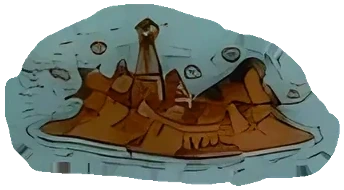
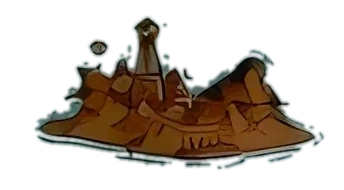
Islands cut free of their baked sea blob; tunable map values with hints; wonders above the sea effects; fix dark edge lines
- scripts/cut-islands.py keeps only land and coast strokes (no pale halo)
- deep-sea shader used premultiplied samples twice, darkening the edge near coasts: fixed
- PixiMapTune (cloud parallax/morph, gusts, smoke, glints, wonders, deep sea, hover delay, wave spacing) +
  Tuning hints; calmer sea defaults (sway 24/10 s, foam crest 14, clouds x6)
- ?capture=1 fades the Panels button out (visible on hover) and no longer disables the Director

diff --git a/src/ui/idleVillage/pixiSpike/PixiWorldMap.tsx b/src/ui/idleVillage/pixiSpike/PixiWorldMap.tsx
@@ -62,7 +62,43 @@ export interface PixiRegionHover {
   y: number;
 }
 
+/** Look-and-feel numbers of the map the Tuning panel can change live. */
+export interface PixiMapTune {
+  /** Multiplier on how far each cloud layer slides against the ground when the camera pans (0 = glued). */
+  cloudParallax: number;
+  /** Multiplier on how much a cloud swells, narrows and tilts as it drifts (0 = rigid). */
+  cloudMorph: number;
+  /** Strength of the wind gusts of light over the forests (0 = off). */
+  gustStrength: number;
+  /** Opacity multiplier of the village smoke (0 = off). */
+  smokeAmount: number;
+  /** Opacity multiplier of the sun glints on the sea (0 = off). */
+  glintAmount: number;
+  /** Seconds between two sea wonders surfacing (kraken, whale, ship): the shortest wait; the longest is 1.9x. */
+  wonderEveryS: number;
+  /** How far (world px) the painted sea's edge colour holds before sinking into deep water. */
+  deepSeaFadePx: number;
+  /** Seconds a territory must be hovered before it lights up and shows its name. */
+  regionHoverDelayS: number;
+  /** No two waves or sea marks play closer than this (world px). */
+  markSpacingPx: number;
+}
+
+export const DEFAULT_MAP_TUNE: PixiMapTune = {
+  cloudParallax: 1,
+  cloudMorph: 1,
+  gustStrength: 1,
+  smokeAmount: 1,
+  glintAmount: 1,
+  wonderEveryS: 18,
+  deepSeaFadePx: 650,
+  regionHoverDelayS: 1,
+  markSpacingPx: 900,
+};
+
 export interface PixiWorldMapProps {
+  /** Live look-and-feel numbers (defaults in `DEFAULT_MAP_TUNE`). */
+  tune?: Partial<PixiMapTune>;
   manifestPath: string;
   hiddenLayerIds?: string[];
   safeFit?: WorldSurfaceSafeFit;
@@ -183,7 +219,7 @@ void main() {
   vec2 w = uExt.xy + vUV * uExt.zw;
   vec2 uv = w / uWorld;
   if (uv.x >= 0.0 && uv.x <= 1.0 && uv.y >= 0.0 && uv.y <= 1.0) { outColor = vec4(0.0); return; }
-  vec2 c = clamp(uv, vec2(0.003), vec2(0.997));
+  vec2 c = clamp(uv, vec2(0.012), vec2(0.988));
   bool sideEdge = uv.x < 0.0 || uv.x > 1.0;
   bool capEdge = uv.y < 0.0 || uv.y > 1.0;
   vec3 acc = vec3(0.0);
@@ -191,11 +227,12 @@ void main() {
   for (int i = -6; i <= 6; i++) {
     float o = float(i) * 0.02;
     vec4 a = sideEdge ? texture(uSea, c + vec2(0.0, o)) : texture(uSea, c + vec2(o, 0.0));
-    acc += a.rgb * a.a;
+    // Pixi uploads textures premultiplied: the rgb is already weighted by its alpha.
+    acc += a.rgb;
     wsum += a.a;
     if (sideEdge && capEdge) {
       vec4 b = texture(uSea, c + vec2(o, 0.0));
-      acc += b.rgb * b.a;
+      acc += b.rgb;
       wsum += b.a;
     }
   }
@@ -222,6 +259,7 @@ out vec4 outColor;
 uniform sampler2D uTex;
 uniform vec4 uRect;
 uniform float uTime;
+uniform float uStrength;
 float hash(vec2 p) { p = fract(p * vec2(123.34, 456.21)); p += dot(p, p + 45.32); return fract(p.x * p.y); }
 float vnoise(vec2 p) {
   vec2 i = floor(p), f = fract(p);
@@ -234,7 +272,7 @@ void main() {
   // A gust is a band of noise advected by the wind; the finer ripple rides inside it.
   float gust = smoothstep(0.5, 0.82, vnoise(w * 0.0022 + vec2(uTime * 0.045, uTime * 0.018)));
   float ripple = 0.55 + 0.45 * vnoise(w * 0.02 + vec2(uTime * 0.35, 0.0));
-  float a = t.a * gust * ripple * 0.30;
+  float a = t.a * gust * ripple * 0.30 * uStrength;
   outColor = vec4(vec3(0.78, 0.9, 0.5) * a, a);
 }
 `;
@@ -280,7 +318,6 @@ const CLOUD_ENTRY_PAD_PX = 200;
 /** Open water past the painted sea: its deep colour, the fog of the unexplored, and how far (world px) the edge colour holds. */
 const DEEP_SEA_COLOR = '#215c70';
 const DEEP_SEA_FOG = '#16394a';
-const DEEP_SEA_FADE_PX = 650;
 /** Cloud layers (far, mid, near): how much further than the ground each slides when the camera pans. */
 const CLOUD_PARALLAX = [0.1, 0.22, 0.4] as const;
 /** Village roofs where smoke rises (world px), puffs per chimney, and a puff's life. */
@@ -311,11 +348,8 @@ function makeGlintCanvas(): HTMLCanvasElement {
 }
 
 /** Pointer dwell before a territory lights up and shows its name. */
-const REGION_HOVER_DELAY_MS = 1000;
 /** No two waves or sea marks play at the same time closer than this (world px). */
-const MARK_MIN_SPACING_PX = 900;
 /** Sea wonders: how often one may surface, how long it stays, how big it is on the map (world px wide). */
-const WONDER_EVERY_S = [18, 34] as const;
 const WONDER_LIFETIME_S = 9;
 const WONDER_WIDTH_PX = 300;
 
@@ -371,6 +405,7 @@ export function PixiWorldMap({
   cloudSpeed = 1,
   seabed,
   regions,
+  tune: tuneProp,
   seaPatternConfig = DEFAULT_SEA_PATTERN_CONFIG,
   coastFoamConfig = DEFAULT_COAST_FOAM_CONFIG,
   onStats,
@@ -382,6 +417,8 @@ export function PixiWorldMap({
   /** Anchors the clouds must clear: read every frame, so POIs that come and go need no map rebuild. */
   const anchorsRef = useRef(anchors);
   anchorsRef.current = anchors;
+  const tune = { ...DEFAULT_MAP_TUNE, ...tuneProp };
+  const tuneKey = JSON.stringify(tune);
   const regionsRef = useRef(regions);
   regionsRef.current = regions;
   const regionsOn = !!regions;
@@ -418,6 +455,7 @@ export function PixiWorldMap({
     const hidden = new Set(hiddenKey ? hiddenKey.split('|') : []);
     const fit = safeFitKey ? (JSON.parse(safeFitKey) as WorldSurfaceSafeFit) : undefined;
     const fxOn = JSON.parse(fxKey) as PixiWorldMapEffects;
+    const tn = JSON.parse(tuneKey) as PixiMapTune;
     const canvas = manifest.coordinateSystem.canvas;
     const margin = fit?.seaMarginPx ?? 0;
     // Vertical sea is only ever the painted sea layer mirrored: land must never be reflected.
@@ -511,7 +549,7 @@ export function PixiWorldMap({
               uWorld: { value: new Float32Array([canvas.width, canvas.height]), type: 'vec2<f32>' },
               uDeep: { value: hexToRgb01(DEEP_SEA_COLOR), type: 'vec3<f32>' },
               uFog: { value: hexToRgb01(DEEP_SEA_FOG), type: 'vec3<f32>' },
-              uFade: { value: DEEP_SEA_FADE_PX, type: 'f32' },
+              uFade: { value: tn.deepSeaFadePx, type: 'f32' },
               uTime: { value: 0, type: 'f32' },
             },
           },
@@ -811,7 +849,7 @@ export function PixiWorldMap({
             const cycle = Math.floor((t + mark.delaySeconds) / cycleSeconds);
             if (cycle !== slot.cycle) {
               slot.cycle = cycle;
-              slot.active = !liveMarks.some((o) => o !== slot && o.active && Math.hypot(o.x - slot.x, o.y - slot.y) < MARK_MIN_SPACING_PX);
+              slot.active = !liveMarks.some((o) => o !== slot && o.active && Math.hypot(o.x - slot.x, o.y - slot.y) < tn.markSpacingPx);
             }
             sprite.alpha = slot.active ? opacity * track(p, [[0, 0], [visible * 0.22, 1], [visible * 0.78, 1], [visible, 0], [1, 0]]) : 0;
             const { dx, dy } = motion(p, visible, mark);
@@ -835,20 +873,20 @@ export function PixiWorldMap({
           dy: track(p, [[0, cfg.bobWorldPx], [visible, -cfg.bobWorldPx], [1, -cfg.bobWorldPx]]),
         }));
       }
+      const wonderLayer = new Container();
       // ── Sea wonders (kraken, whale, pirate ship): a rare one surfaces in open water, stays, sinks ──
       if (fxOn.wonders && seaWonderCatalog.length > 0) {
         const points = (await fetch('/assets/atmosphere/terrain/points.json').then((r) => r.json())) as { wonder?: { x: number; y: number }[] };
         const anchors = points.wonder ?? [];
         const sprites = await Promise.all(seaWonderCatalog.map(async (w) => ({ w, tex: await load(`/assets/atmosphere/${w.src}`) })));
         if (disposed) return;
-        const layer = new Container();
-        world.addChild(layer);
+        const layer = wonderLayer;
         const live: { x: number; y: number; until: number }[] = [];
-        let nextAt = 6 + Math.random() * 6;
+        let nextAt = Math.min(8, tn.wonderEveryS) + Math.random() * 6;
         ticks.push((t) => {
           for (let i = live.length - 1; i >= 0; i -= 1) if (live[i].until < t) live.splice(i, 1);
           if (reducedMotion || t < nextAt || live.length >= wonderSpawnDefaults.maxActiveWonders) return;
-          nextAt = t + WONDER_EVERY_S[0] + Math.random() * (WONDER_EVERY_S[1] - WONDER_EVERY_S[0]);
+          nextAt = t + tn.wonderEveryS + Math.random() * tn.wonderEveryS * 0.9;
           const free = anchors.filter(
             (a) =>
               !live.some((o) => Math.hypot(o.x - a.x, o.y - a.y) < wonderSpawnDefaults.minWonderSpacing) &&
@@ -978,6 +1016,9 @@ export function PixiWorldMap({
       }
 
       // ── Clouds: the same bands as their shadows, drifting above everything ──
+      // Wonders sit above the sea pattern, the waves and the coast foam.
+      world.addChild(wonderLayer);
+
       // ── Land life: wind gusts over the forests, smoke from the village, sun glints on the sea ──
       if (fxOn.landLife && !reducedMotion) {
         const layered = (await fetch('/assets/world/wanderlust/base/manifest.json').then((r) => r.json())) as {
@@ -1002,6 +1043,7 @@ export function PixiWorldMap({
               u: {
                 uRect: { value: new Float32Array([box.x, box.y, box.w, box.h]), type: 'vec4<f32>' },
                 uTime: { value: 0, type: 'f32' },
+                uStrength: { value: tn.gustStrength, type: 'f32' },
               },
             },
           });
@@ -1041,7 +1083,7 @@ export function PixiWorldMap({
               puff.x = chimney.x + life * 46 + Math.sin(life * 5 + chimney.y) * 4;
               puff.y = chimney.y - life * 78;
               puff.scale.set(0.35 + life * 0.85);
-              puff.alpha = Math.sin(Math.PI * Math.min(1, life * 1.15)) * 0.42;
+              puff.alpha = Math.sin(Math.PI * Math.min(1, life * 1.15)) * 0.42 * tn.smokeAmount;
             });
           }
         }
@@ -1064,7 +1106,7 @@ export function PixiWorldMap({
             const period = 5 + ((seed * 13) % 4);
             ticks.push((t) => {
               const p = ((((t + seed * 5) % period) + period) % period) / period;
-              star.alpha = Math.max(0, Math.sin(p * Math.PI * 4)) ** 6 * (p < 0.5 ? 0.9 : 0);
+              star.alpha = Math.max(0, Math.sin(p * Math.PI * 4)) ** 6 * (p < 0.5 ? 0.9 : 0) * tn.glintAmount;
             });
           }
         });
@@ -1077,7 +1119,7 @@ export function PixiWorldMap({
           // the camera pans (parallax), drift with a slight wind shear, and every cloud slowly changes shape.
           const level = bandIndex[band.name] ?? 1;
           const layer = new Container();
-          const parallax = CLOUD_PARALLAX[level];
+          const parallax = CLOUD_PARALLAX[level] * tn.cloudParallax;
           bandLayers.push({ layer, parallax });
           world.addChild(layer);
           for (const s of band.sprites) {
@@ -1100,8 +1142,8 @@ export function PixiWorldMap({
               // Wind shear: the higher the layer, the more its path meanders across the map.
               sprite.y = s.y + h / 2 + Math.sin(t * 0.045 + phase) * (14 + level * 16);
               if (!reducedMotion) {
-                sprite.scale.set(baseScale * (1 + 0.045 * Math.sin(t * 0.11 + phase)), baseScale * (1 + 0.04 * Math.sin(t * 0.083 + phase * 1.7)));
-                sprite.rotation = 0.02 * Math.sin(t * 0.07 + phase);
+                sprite.scale.set(baseScale * (1 + 0.045 * tn.cloudMorph * Math.sin(t * 0.11 + phase)), baseScale * (1 + 0.04 * tn.cloudMorph * Math.sin(t * 0.083 + phase * 1.7)));
+                sprite.rotation = 0.02 * tn.cloudMorph * Math.sin(t * 0.07 + phase);
               }
               // A cloud that would sit on a point of interest thins out instead of hiding it.
               let want = 1;
@@ -1333,7 +1375,7 @@ export function PixiWorldMap({
             hoverIndex = index;
             highlightFor(index);
             report(index);
-          }, REGION_HOVER_DELAY_MS);
+          }, tn.regionHoverDelayS * 1000);
         };
         const onLeave = () => {
           window.clearTimeout(dwellTimer);
@@ -1438,7 +1480,7 @@ export function PixiWorldMap({
         /* init may not have finished */
       }
     };
-  }, [manifest, cameraConfig, hiddenKey, safeFitKey, fxKey, seaPatternConfig, coastFoamConfig, cloudShadowOpacity, cloudShadowOffset.x, cloudShadowOffset.y, cloudSpeed, seabed?.opacity, seabed?.parallax, regionsOn, onStats, syncAnchors]);
+  }, [manifest, cameraConfig, hiddenKey, safeFitKey, fxKey, seaPatternConfig, coastFoamConfig, cloudShadowOpacity, cloudShadowOffset.x, cloudShadowOffset.y, cloudSpeed, seabed?.opacity, seabed?.parallax, regionsOn, tuneKey, onStats, syncAnchors]);
 
   // New or moved anchors get placed before paint, not on the next camera move.
   useLayoutEffect(syncAnchors);

diff --git a/src/ui/idleVillage/components/gameFrame/TuningPanel.tsx b/src/ui/idleVillage/components/gameFrame/TuningPanel.tsx
@@ -10,6 +10,8 @@ export interface TuningField {
   min: number;
   max: number;
   step: number;
+  /** One or two sentences: what the value does and what happens at each end. Shown on hover. */
+  hint?: string;
 }
 
 export interface TuningPanelProps {
@@ -56,10 +58,10 @@ export const TuningPanel: React.FC<TuningPanelProps> = ({ fields, onCommit, onRe
           </button>
         )}
       </div>
-      <div style={{ display: 'flex', flexDirection: 'column', gap: 8, maxHeight: 'calc(100vh - 260px)', overflowY: 'auto', paddingRight: 8 }}>
+      <div style={{ display: 'flex', flexDirection: 'column', gap: 8, maxHeight: 'calc(100vh - 260px)', overflowY: 'auto', paddingRight: 8, scrollbarWidth: 'thin', scrollbarColor: 'var(--skin-surface-border) transparent' }}>
       {fields.map((field) => (
-        <label key={field.id} style={{ display: 'grid', gridTemplateColumns: '1fr auto', gap: 2, fontFamily: 'var(--skin-font-serif)', fontSize: 13, color: 'var(--skin-body-color)' }}>
-          <span>{field.label}</span>
+        <label key={field.id} title={field.hint} style={{ display: 'grid', gridTemplateColumns: '1fr auto', gap: 2, fontFamily: 'var(--skin-font-serif)', fontSize: 13, color: 'var(--skin-body-color)' }}>
+          <span>{field.label}{field.hint && <span aria-hidden="true" style={{ opacity: 0.55, marginLeft: 6 }}>ⓘ</span>}</span>
           <output style={{ fontVariantNumeric: 'tabular-nums', color: 'var(--skin-title-color)' }}>{shown(field)}</output>
           <input
             type="range"

diff --git a/src/pages/game-frame.tsx b/src/pages/game-frame.tsx
@@ -132,7 +132,12 @@ export function GameFrameScreen({ renderMap, rosterSlot, overlaySlot, extraEvent
         }
         resourcesSlot={<ResourceReadout items={buildResourceReadoutItems(selectResourceOutlook(state, config), t)} />}
         hangingSlot={panels.visible.events ? <HudEventLedger events={events} context="game_frame" onSelect={focusEvent} onClose={() => panels.set('events', false)} /> : undefined}
-        utilitySlot={captureMode ? undefined : <HudPanelsMenu visible={panels.visible} onToggle={panels.toggle} includeDev={devPanels} />}
+        utilitySlot={
+          // ?capture=1 fades the button out for clean shots; it comes back under the pointer (and the P/R/E/D/T keys still work).
+          <div style={captureMode ? { opacity: 0, transition: 'opacity 200ms' } : undefined} onMouseEnter={(e) => captureMode && (e.currentTarget.style.opacity = '1')} onMouseLeave={(e) => captureMode && (e.currentTarget.style.opacity = '0')}>
+            <HudPanelsMenu visible={panels.visible} onToggle={panels.toggle} includeDev={devPanels} />
+          </div>
+        }
         rosterSlot={panels.visible.roster ? (typeof rosterSlot === 'function' ? rosterSlot({ onClose: () => panels.set('roster', false) }) : (rosterSlot ?? <Roster componentId="game-frame-roster" density="compact" onClose={() => panels.set('roster', false)} />)) : undefined}
         recenterSlot={<HudRecenterButton onRecenter={() => setRecenterSignal((n) => n + 1)} />}
       >

diff --git a/src/balancing/config/idleVillage/gameFrameConfig.ts b/src/balancing/config/idleVillage/gameFrameConfig.ts
@@ -400,7 +400,7 @@ const RAW_DEFAULT_GAME_FRAME_CONFIG: GameFrameConfig = {
     gradedManifestPath: '/assets/world/wanderlust/base/manifest-flat-graded.json',
     grade: 'graded',
     stageColor: '#489397',
-    motion: { cloudShadowOpacity: 0.42, cloudShadowOffsetX: 90, cloudShadowOffsetY: 140, cloudSpeed: 10, seaMotionAmount: 34, seaMotionPeriod: 7, seaLineOpacity: 0.26, foamStrength: 0.7, foamCrestSpeed: 30 },
+    motion: { cloudShadowOpacity: 0.42, cloudShadowOffsetX: 90, cloudShadowOffsetY: 140, cloudSpeed: 6, seaMotionAmount: 24, seaMotionPeriod: 10, seaLineOpacity: 0.26, foamStrength: 0.7, foamCrestSpeed: 14 },
     seabed: { opacity: 0.55, parallax: 0.8 },
     hiddenLayerIds: ['frame', 'border'],
     showAtmosphere: false,

diff --git a/scripts/cut-islands.py b/scripts/cut-islands.py
@@ -1,0 +1,60 @@
+"""Cut the islands out of their baked sea halo.
+
+`Isola basso sinistra` / `Isola basso a destra` were exported with a large opaque blob of grey-blue sea (and its
+coast strokes) around the land, so on the live map each island sits in a pale rounded patch that the sea animation
+cannot reach. Keep only: the land (warm pixels), and the dark coast strokes close to it; everything else becomes
+transparent, with a soft 2 px edge.
+
+Usage: python3 scripts/cut-islands.py   (run once; originals are in git history)
+"""
+import os
+
+import numpy as np
+from PIL import Image
+
+LAYERS = os.path.join(os.path.dirname(__file__), '..', 'public', 'assets', 'world', 'wanderlust', 'base', 'layers')
+NAMES = ['Isola basso sinistra', 'Isola basso a destra']
+STROKE_REACH_PX = 10
+
+
+def dilate(mask: np.ndarray, steps: int) -> np.ndarray:
+    m = mask.copy()
+    for _ in range(steps):
+        n = m.copy()
+        for dy, dx in ((1, 0), (-1, 0), (0, 1), (0, -1)):
+            n |= np.roll(m, (dy, dx), axis=(0, 1))
+        m = n
+    return m
+
+
+def blur3(x: np.ndarray, times: int = 2) -> np.ndarray:
+    x = x.astype(np.float32)
+    for _ in range(times):
+        acc = x.copy()
+        for dy in (-1, 0, 1):
+            for dx in (-1, 0, 1):
+                if dy or dx:
+                    acc += np.roll(x, (dy, dx), axis=(0, 1))
+        x = acc / 9.0
+    return x
+
+
+for name in NAMES:
+    for variant in (f'{name}.webp', f'{name}.graded.webp'):
+        path = os.path.join(LAYERS, variant)
+        if not os.path.exists(path):
+            continue
+        a = np.array(Image.open(path).convert('RGBA')).astype(np.int32)
+        r, g, b, al = a[..., 0], a[..., 1], a[..., 2], a[..., 3]
+        lum = 0.299 * r + 0.587 * g + 0.114 * b
+        solid = al > 200
+        land = solid & (r > b + 12)
+        dark = solid & (lum < 100)
+        keep = land | (dark & dilate(land, STROKE_REACH_PX))
+        # Close pinholes inside the land so no sea-coloured speckle shows through it.
+        keep = dilate(keep, 1)
+        soft = blur3(keep, 2)
+        out = a.copy()
+        out[..., 3] = np.clip(soft * 255, 0, 255).astype(np.int32)
+        Image.fromarray(out.astype(np.uint8), 'RGBA').save(path, quality=94, method=6)
+        print('cut', variant, 'kept', round(float(keep.mean()), 3))
